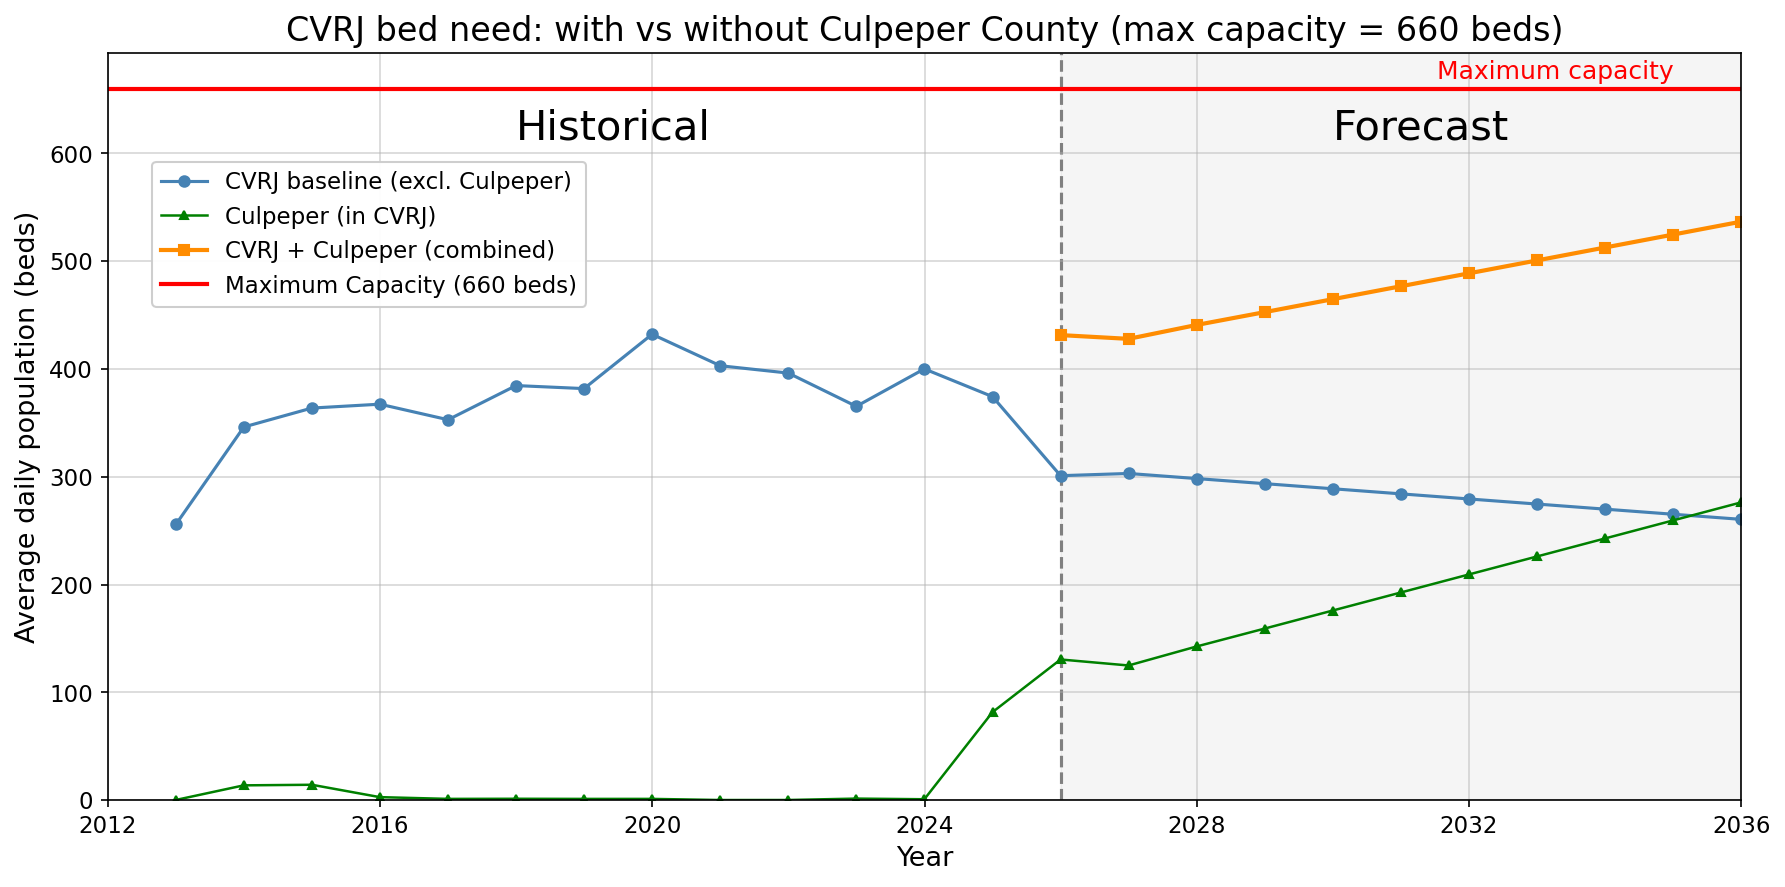
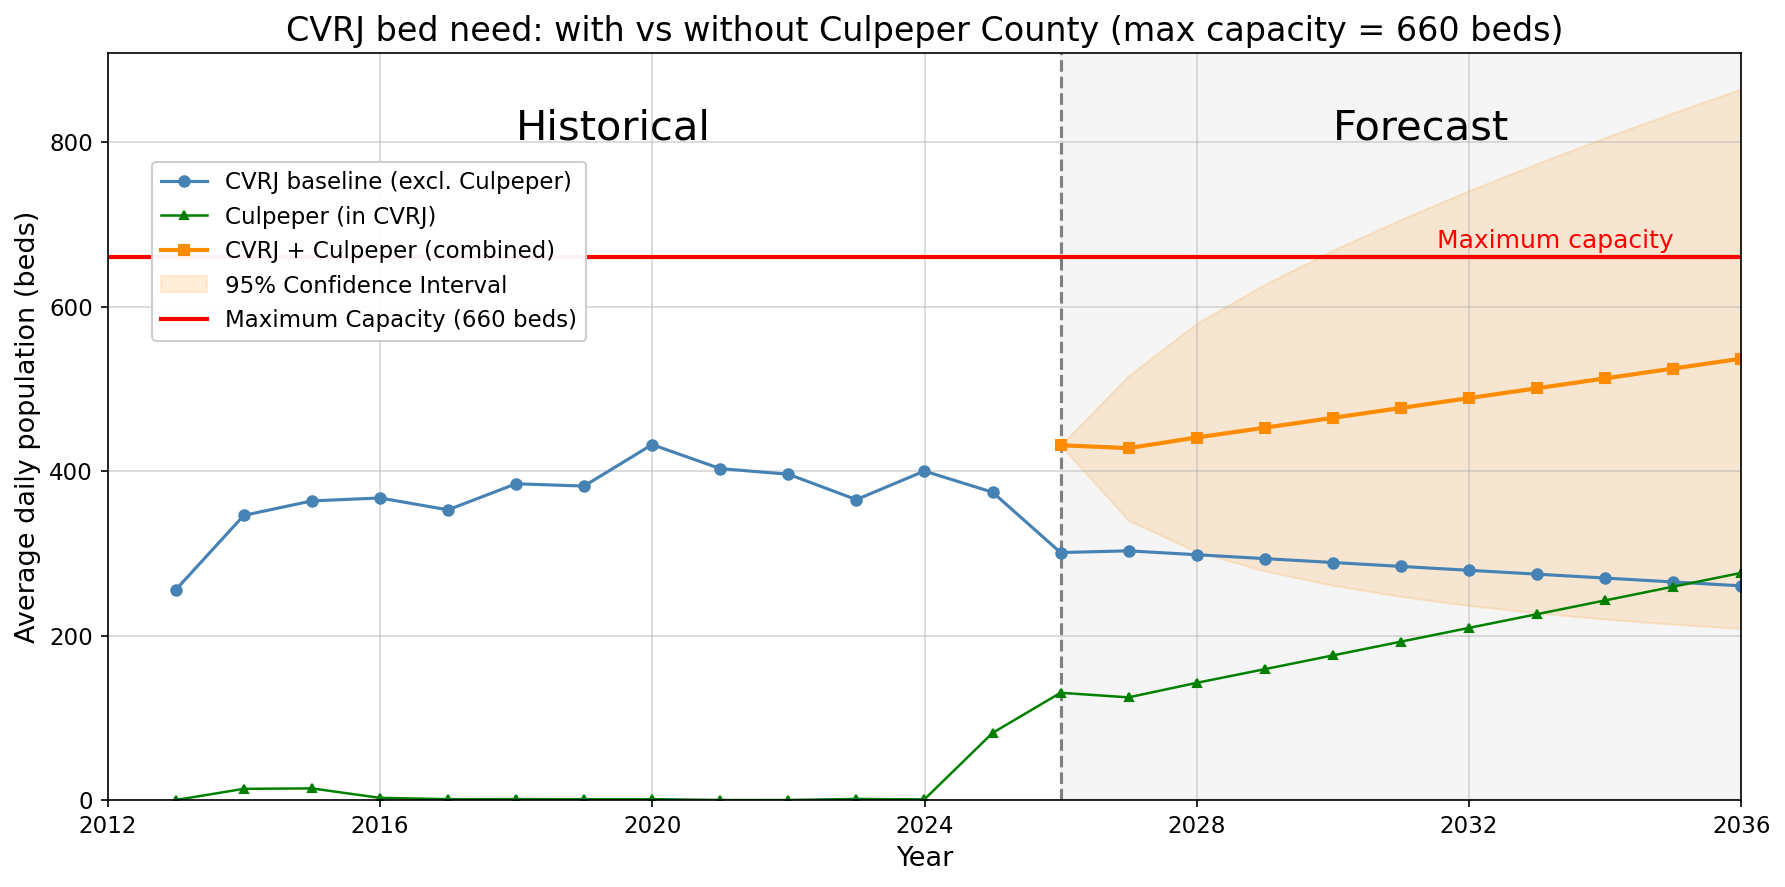
error bars

diff --git a/scripts/03_run_forecast.py b/scripts/03_run_forecast.py
@@ -51,7 +51,7 @@ else:
     daily_census = pd.Series(0, index=date_range)
 
 # Annual ADP Baseline
-annual_cvrj_adp = daily_census.resample('YE').mean()
+annual_cvrj_adp = daily_census.resample('Y').mean()
 print("CVRJ Baseline Annual ADP (Head):")
 print(annual_cvrj_adp.head())
 
@@ -75,7 +75,7 @@ if not df_culp.empty:
     date_range_c = pd.date_range(start=min_c.normalize(), end=max_c.normalize(), freq='D')
     evt_c = evt_c.groupby('Date')['Change'].sum().sort_index()
     daily_culp = evt_c.reindex(date_range_c, fill_value=0).cumsum()
-    annual_culpeper_in_cvrj = daily_culp.resample('YE').mean()
+    annual_culpeper_in_cvrj = daily_culp.resample('Y').mean()
 else:
     annual_culpeper_in_cvrj = pd.Series(dtype=float)
 print("Culpeper-in-CVRJ (County 47) Annual ADP (Head):")
@@ -137,8 +137,9 @@ def fit_forecast(adp_series, exog_series, name, steps=10):
         
         forecast = results.get_forecast(steps=steps, exog=future_pop.reshape(-1,1))
         forecast_vals = forecast.predicted_mean
+        forecast_se = forecast.se_mean
         
-        return forecast_vals, future_pop
+        return forecast_vals, future_pop, forecast_se
         
     except Exception as e:
         print(f"Error modeling {name}: {e}")
@@ -151,7 +152,7 @@ if not total_cvrj_pop.empty:
     pop_2025 = last_pop + (last_pop - prev_pop)
     total_cvrj_pop.loc[pd.Timestamp('2025-12-31')] = pop_2025
     
-cvrj_forecast, cvrj_fut_pop = fit_forecast(annual_cvrj_adp, total_cvrj_pop, "CVRJ_Baseline")
+cvrj_forecast, cvrj_fut_pop, cvrj_se = fit_forecast(annual_cvrj_adp, total_cvrj_pop, "CVRJ_Baseline")
 
 # Run Culpeper-in-CVRJ Model (County 47 from CSV — realistic CVRJ add-on)
 if not culp_pop.empty:
@@ -162,10 +163,11 @@ if not culp_pop.empty:
 
 # Forecast Culpeper-in-CVRJ (County 47) using CSV-derived ADP; drop 2020-2021 if desired for stability
 culpeper_in_cvrj_forecast = None
+culpeper_se = None
 if not annual_culpeper_in_cvrj.empty and not culp_pop.empty:
     culp_clean = annual_culpeper_in_cvrj[~annual_culpeper_in_cvrj.index.year.isin([2020, 2021])]
     if len(culp_clean) >= 3:
-        culpeper_in_cvrj_forecast, culp_fut_pop = fit_forecast(culp_clean, culp_pop, "Culpeper_In_CVRJ")
+        culpeper_in_cvrj_forecast, culp_fut_pop, culpeper_se = fit_forecast(culp_clean, culp_pop, "Culpeper_In_CVRJ")
 
 # Save historical ADP series for capacity visualization (even if forecast fails)
 annual_cvrj_adp.to_csv('../data/outputs/forecast_annual_cvrj_adp.csv', header=['ADP'])
@@ -174,19 +176,23 @@ if not annual_culpeper_in_cvrj.empty:
 
 # --- 5. Analysis ---
 if cvrj_forecast is not None and culpeper_in_cvrj_forecast is not None:
-    years_future = pd.date_range(start='2026-12-31', periods=10, freq='YE')
+    years_future = pd.date_range(start='2026-12-31', periods=10, freq='Y')
     print("\nForecast Results (2026-2035) — Combined = CVRJ + Culpeper-in-CVRJ (from CSV):")
     res_df = pd.DataFrame({
         'CVRJ_Baseline_NoCulpeper': cvrj_forecast.values,
-        'Culpeper_In_CVRJ': culpeper_in_cvrj_forecast.values
+        'CVRJ_SE': cvrj_se.values,
+        'Culpeper_In_CVRJ': culpeper_in_cvrj_forecast.values,
+        'Culpeper_SE': culpeper_se.values if culpeper_se is not None else 0
     }, index=years_future)
     
     # Combined Load = CVRJ (No 47) + Culpeper inmates actually in CVRJ (County 47 from CSV)
     res_df['Combined_Load'] = res_df['CVRJ_Baseline_NoCulpeper'] + res_df['Culpeper_In_CVRJ']
+    # Combined SE (assuming independent errors) = sqrt(SE1^2 + SE2^2)
+    res_df['Combined_SE'] = np.sqrt(res_df['CVRJ_SE']**2 + res_df['Culpeper_SE']**2)
     res_df['Capacity'] = 660
     res_df['Over_Capacity'] = res_df['Combined_Load'] > 660
     
-    print(res_df)
+    print(res_df[['Combined_Load', 'Combined_SE']])
     
     res_df.to_csv('../data/outputs/forecast_results.csv')
     
@@ -199,5 +205,5 @@ if cvrj_forecast is not None and culpeper_in_cvrj_forecast is not None:
     plt.ylabel('Inmate Population')
     plt.legend()
     plt.grid(True)
-    plt.savefig('visuals/forecast_plot_revised.png')
-    print("\nPlot saved to visuals/forecast_plot_revised.png")
+    plt.savefig('../visuals/forecast_plot_revised.png')
+    print("\nPlot saved to ../visuals/forecast_plot_revised.png")

diff --git a/scripts/07_capacity_forecast_visualization.py b/scripts/07_capacity_forecast_visualization.py
@@ -57,7 +57,7 @@ def build_combined_historical(annual_cvrj_adp, annual_culpeper_in_cvrj):
 
 
 def plot_capacity(ax, annual_cvrj_adp, years_future, cvrj_forecast_vals, combined_forecast,
-                  annual_culpeper_in_cvrj, culpeper_forecast_vals, draw_forecast_marker=True):
+                  annual_culpeper_in_cvrj, culpeper_forecast_vals, combined_se=None, draw_forecast_marker=True):
     """Draw capacity plot: CVRJ baseline full; Culpeper-only full; CVRJ+Culpeper only on forecast side."""
     hist_years = annual_cvrj_adp.index
     all_years = list(hist_years) + list(years_future)
@@ -103,6 +103,16 @@ def plot_capacity(ax, annual_cvrj_adp, years_future, cvrj_forecast_vals, combine
             's-', color='darkorange',
             markersize=5, linewidth=2,
             label='CVRJ + Culpeper (combined)')
+
+    # Plot Uncertainty band (95% CI roughly corresponds to 1.96 * SE)
+    if combined_se is not None:
+        se_trim = combined_se[years_future >= start_date]
+        se_combo_plot = [0.0] + list(se_trim) # 0 variance at the anchor point
+        upper_bound = np.array(vals_combo_plot) + 1.96 * np.array(se_combo_plot)
+        lower_bound = np.array(vals_combo_plot) - 1.96 * np.array(se_combo_plot)
+        
+        ax.fill_between(years_combo_plot, lower_bound, upper_bound, 
+                        color='darkorange', alpha=0.15, label='95% Confidence Interval')
 
     # Maximum capacity line
     # Maximum capacity line
@@ -170,12 +180,13 @@ def main():
     years_future = res_df.index
     cvrj_forecast_vals = res_df['CVRJ_Baseline_NoCulpeper'].values
     combined_forecast = res_df['Combined_Load'].values
+    combined_se = res_df['Combined_SE'].values if 'Combined_SE' in res_df.columns else None
     culpeper_forecast_vals = res_df['Culpeper_In_CVRJ'].values if 'Culpeper_In_CVRJ' in res_df.columns else None
 
     # --- Figure 1: Capacity with vs without Culpeper + 660 line ---
     fig, ax = plt.subplots(figsize=(12, 6))
     plot_capacity(ax, annual_cvrj_adp, years_future, cvrj_forecast_vals, combined_forecast,
-                  annual_culpeper_in_cvrj, culpeper_forecast_vals, draw_forecast_marker=True)
+                  annual_culpeper_in_cvrj, culpeper_forecast_vals, combined_se=combined_se, draw_forecast_marker=True)
     ax.set_title('CVRJ bed need: with vs without Culpeper County (max capacity = 660 beds)', fontsize=FONT_TITLE)
     plt.tight_layout()
     out1 = os.path.join(_ROOT, 'visuals', 'capacity_forecast_with_and_without_culpeper.png')
@@ -186,7 +197,7 @@ def main():
     # --- Figure 2: Same plot + methodology text ---
     fig2, ax2 = plt.subplots(figsize=(12, 7))
     plot_capacity(ax2, annual_cvrj_adp, years_future, cvrj_forecast_vals, combined_forecast,
-                  annual_culpeper_in_cvrj, culpeper_forecast_vals, draw_forecast_marker=True)
+                  annual_culpeper_in_cvrj, culpeper_forecast_vals, combined_se=combined_se, draw_forecast_marker=True)
     ax2.set_title('CVRJ bed need: with vs without Culpeper County (max capacity = 660 beds)', fontsize=FONT_TITLE)
 
     methodology = (
